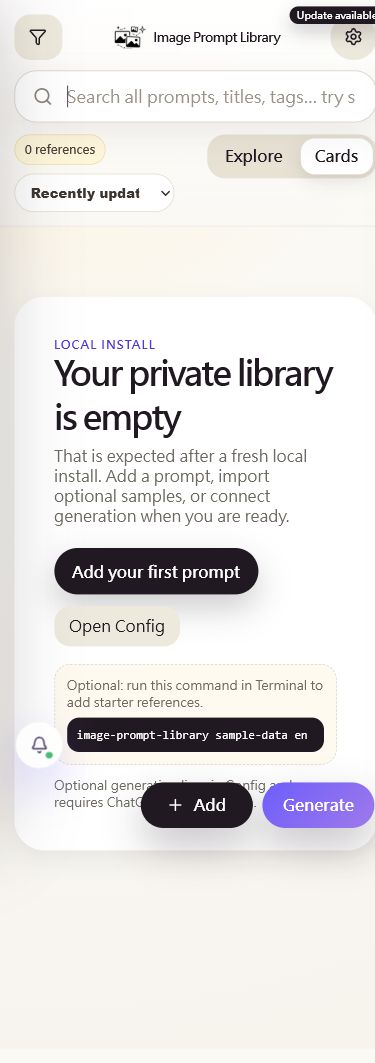
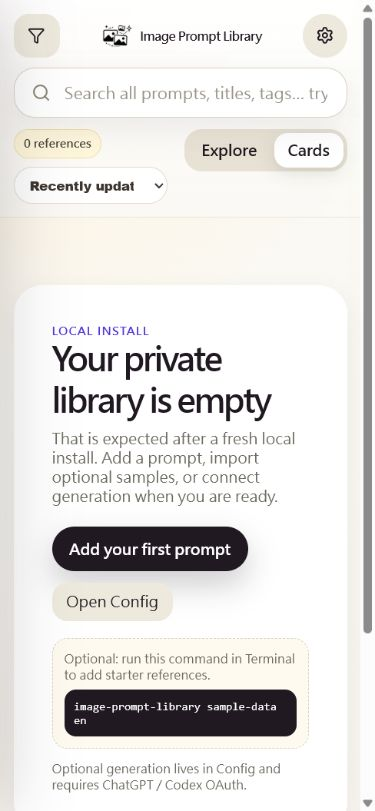
fix: hide first-run floating controls

diff --git a/frontend/src/App.tsx b/frontend/src/App.tsx
@@ -294,7 +294,7 @@ export default function App() {
   const editSummary = (item: { id: string }) => { api.item(item.id).then(full => { setEditing(full); setEditorOpen(true); }).catch(() => undefined); };
   const focusedItemGenerationJobId = pendingGenerationSourceItemId ? focusedGenerationJobId : undefined;
   const showSelectedCollectionDock = Boolean(selectedCluster && !filtersOpen && !configOpen && !detailId && !editorOpen);
-  const showFloatingActions = Boolean(!selectionMode && !filtersOpen && !configOpen && !detailId && !editorOpen && !standaloneGenerationOpen);
+  const showFloatingActions = Boolean(emptyMode !== 'first-run' && !selectionMode && !filtersOpen && !configOpen && !detailId && !editorOpen && !standaloneGenerationOpen);
   const updateBadgeLabel = restartRequiredVersion ? 'Restart required' : (updateStatus?.update_available ? 'Update available' : undefined);
   return <div className={`app ${view === 'explore' ? 'explore-mode' : 'cards-mode'}`}>
     {!hasChosenUiLanguage && (

diff --git a/tests/test_frontend_static.py b/tests/test_frontend_static.py
@@ -78,6 +78,7 @@ def test_local_empty_library_uses_first_run_panel_without_replacing_search_no_re
     css = (ROOT / "frontend" / "src" / "styles.css").read_text()
 
     assert "const emptyMode = !isDemoMode && localizedData.items.length === 0 && !q.trim() && !clusterId ? 'first-run' : 'no-results'" in app
+    assert "emptyMode !== 'first-run'" in app
     assert "emptyMode={emptyMode}" in app
     assert "onOpenConfig={() => setConfigOpen(true)}" in app
     assert "emptyMode?: 'first-run' | 'no-results'" in cards

diff --git a/docs/qa/2026-07-09-install-onboarding-polish-qa.md b/docs/qa/2026-07-09-install-onboarding-polish-qa.md
@@ -13,6 +13,7 @@
 - PASS: Desktop `Add your first prompt` opens the new reference editor.
 - PASS: Desktop Config Local Setup section is visible with `status`, `doctor`, and `sample-data en` commands.
 - PASS: Mobile empty-library first-run panel fits without horizontal overflow.
+- PASS: Mobile first-run hides the floating Add, Generate, and generation queue controls so they cannot cover onboarding content.
 - PASS: Mobile buttons remain tappable.
 - PASS: Mobile Config Local Setup section fits in the drawer.
 - PASS: Mobile command hints do not overflow the viewport.
@@ -27,9 +28,8 @@ Screenshots:
 Mobile screenshot method:
 
 - The browser viewport was set so the page had a measured `375px` CSS content width.
-- The first-run page used a full-page capture after load completed.
-- The fixed Config drawer used a viewport capture after its `220ms` transition completed. Full-page capture is not valid for this state because the browser temporarily resizes the page and mis-composites fixed elements.
-- Measured results: document `scrollWidth` was `375px`; the first-run panel stayed within the viewport; the settled Config drawer started at `x=0` and its visible header ended at `x=357.2`.
+- Both states used viewport captures from fresh tabs after the `220ms` drawer transition settled. Full-page capture is not valid because the browser temporarily resizes the page and can mis-composite fixed or transformed drawers.
+- Measured results: document `scrollWidth` was `375px`; the first-run panel stayed within the viewport; floating rail and queue trigger counts were both `0`; the settled Config drawer started at `x=0` and its visible header ended at `x=357.2`.
 - The earlier `G:\Temp\ipl-install-onboarding-mobile.png` is superseded because it captured the fixed drawer incorrectly and is not valid QA evidence.
 
 ## CLI QA
